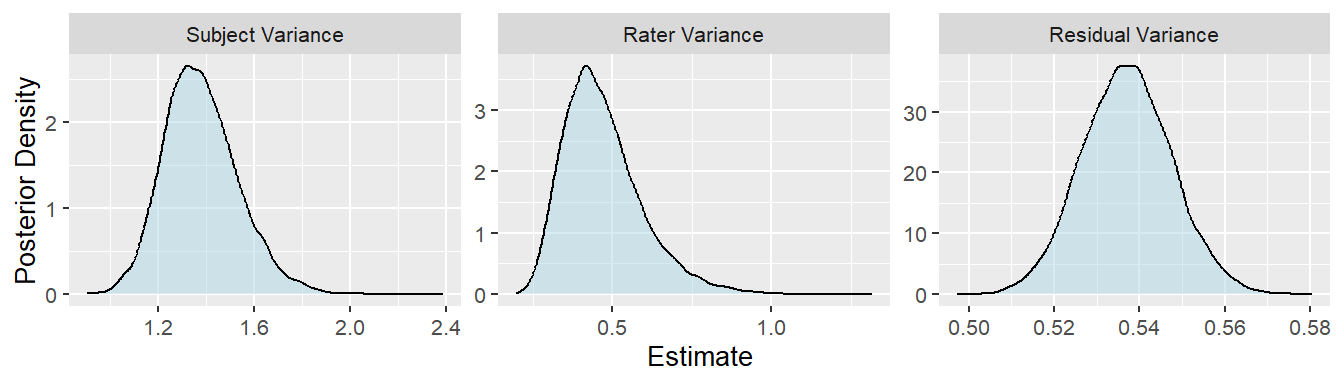
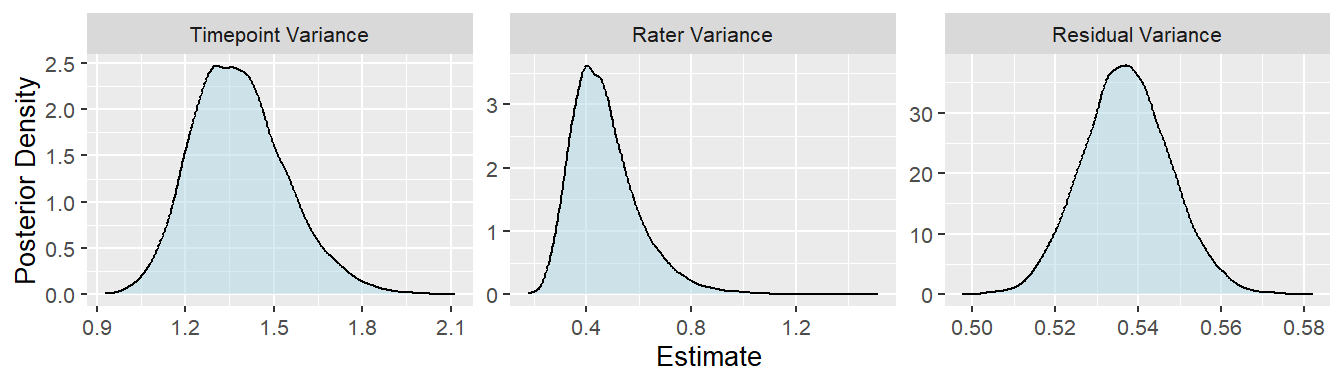
Rename subject to timepoint

diff --git a/docs/akeelah.html b/docs/akeelah.html
@@ -217,13 +217,13 @@ ul.task-list li input[type="checkbox"] {
 <div class="cell">
 
 </div>
-<p>A Bayesian generalizability study was used to decompose the variance in ratings of this video clip into the following components: subject variance (in average ratings of each second, across raters), rater variance (in average ratings from each rater, across seconds), and residual variance (including second-by-rater interactions and measurement error). Subject variance was estimated at 1.32, 95% ETI: [1.11, 1.72]; rater variance was estimated at 0.42 [0.28, 0.77]; and residual variance was estimated at 0.54 [0.52, 0.56]. See the figure below for the posterior distributions of each component.</p>
+<p>A Bayesian generalizability study was used to decompose the variance in ratings of this video clip into the following components: timepoint variance (in average ratings of each second, across raters), rater variance (in average ratings from each rater, across seconds), and residual variance (including second-by-rater interactions and measurement error). Timepoint variance was estimated at 1.31, 95% ETI: [1.1, 1.73]; rater variance was estimated at 0.4 [0.28, 0.79]; and residual variance was estimated at 0.54 [0.52, 0.56]. See the figure below for the posterior distributions of each component.</p>
 <div class="cell">
 <div class="cell-output-display">
 <p><img src="akeelah_files/figure-html/unnamed-chunk-6-1.png" class="img-fluid" style="width:100.0%"></p>
 </div>
 </div>
-<p>From these variance components, we can estimate inter-rater reliability of the ratings. There are many formulations of the two-way intraclass correlation (ICC), but the most relevant to our purposes here is the balanced average-measures consistency formulation or ICC(C,k). Inter-rater reliability under this formulation was estimated as 0.988, 95% ETI: [0.985, 0.991]. See the middle of the second row in the figure below for the posterior distribution of this formulation.</p>
+<p>From these variance components, we can estimate inter-rater reliability of the ratings. There are many formulations of the two-way intraclass correlation (ICC), but the most relevant to our purposes here is the balanced average-measures consistency formulation or ICC(C,k). Inter-rater reliability under this formulation was estimated as 0.989, 95% ETI: [0.985, 0.991]. See the middle of the second row in the figure below for the posterior distribution of this formulation.</p>
 <div class="cell">
 <div class="cell-output-display">
 <p><img src="akeelah_files/figure-html/unnamed-chunk-7-1.png" class="img-fluid" style="width:100.0%"></p>
